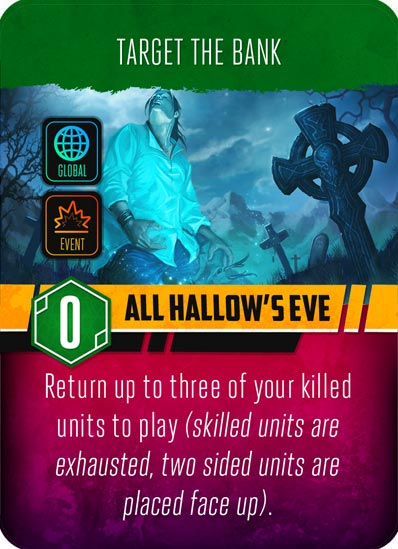
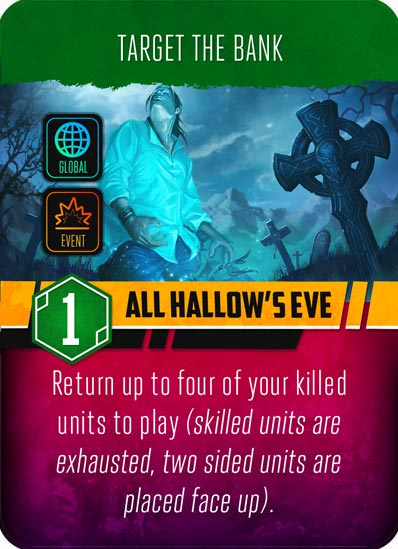
Tweak Go with god to revive 4 units

diff --git a/server/classes/Cards.js b/server/classes/Cards.js
@@ -25,6 +25,7 @@ class Card {
 class AllHollowsEve extends Card {
     async handle( faction, area ){
         let player, data;
+        let reviveCount = 4;
         let units = [];
         let areas = {};
 
@@ -47,12 +48,12 @@ class AllHollowsEve extends Card {
             players: faction.playerId,
             name: 'choose-units',
             data : {
-                count : 3,
+                count : reviveCount,
                 optionalMax: true,
                 areas : areas,
                 playerOnly : true,
                 killedOnly : true,
-                message: "Choose up to 3 units killed to revive",
+                message: `Choose up to ${reviveCount} units killed to revive`,
             }
         }).catch( error => console.error( error ) );
 

diff --git a/server/classes/data/cards.js b/server/classes/data/cards.js
@@ -3,7 +3,7 @@ let obj = [
         class : 'all-hollows-eve',
         file : 'all-hollows-eve-1',
         name : "All Hollow's Eve",
-        cost : 0,
+        cost : 1,
         target : 'bank',
         type : 'event',
         scope : 'global',
